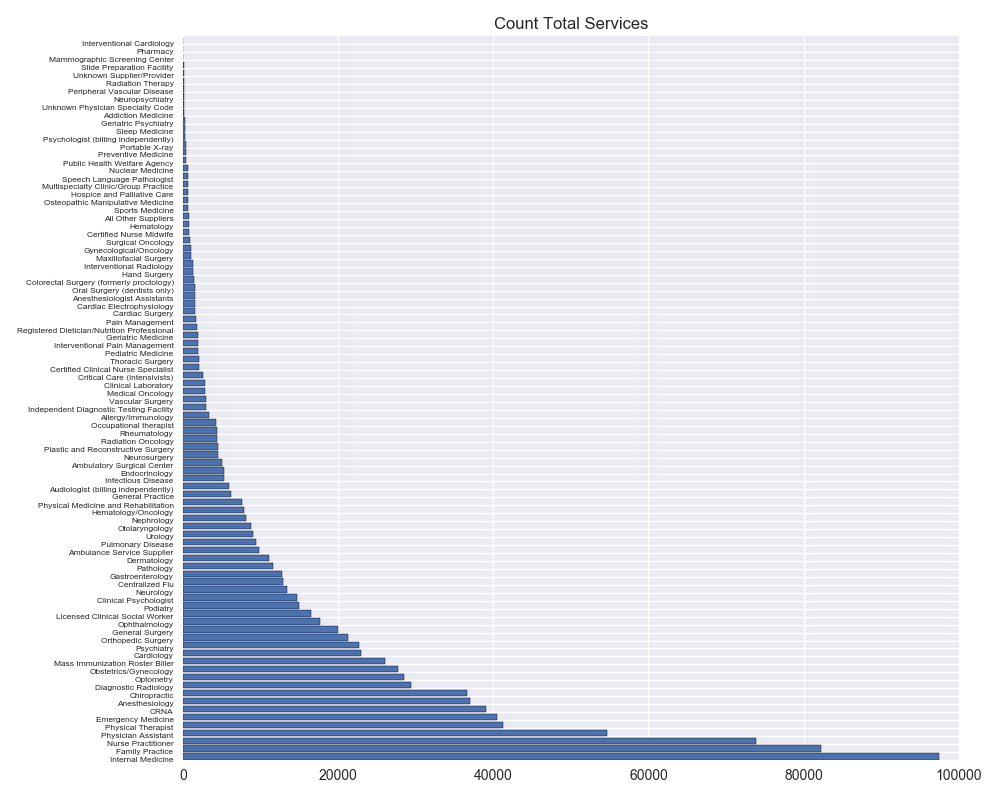
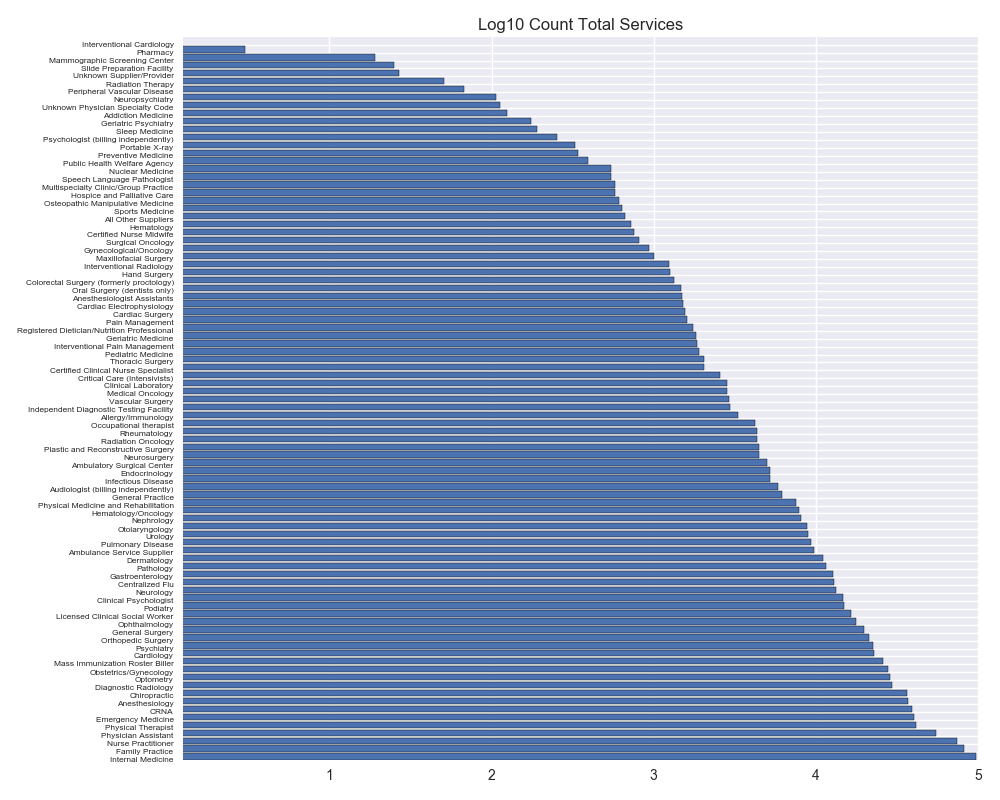
add log scale pop plots

diff --git a/cms_explore.py b/cms_explore.py
@@ -94,9 +94,12 @@ def read_select_data(new_cols, fname, first=False):
 
     return df
 
-def get_col(df, col):
-    "get a series from dataframe for a particular column"
-    return df[col].dropna()
+def get_col(df, col, log=False):
+    "get a series from dataframe for a particular column, w/ option to take log of series"
+    series = df[col].dropna()
+    if log:
+        series = np.log10(series)
+    return series
 
 def process_by_var(plotdir, dfgroup, col, var='nppes_provider_gender'):
     "process dataframe group by variable, usually gender"
@@ -190,14 +193,14 @@ def pop_calc_par_groups(df):
 
     print('\ntop total_services count')  # count of number of providers, not patients
     p_sort = filter_group_by_var(p_group['total_services'], agg_fns, stat='count')
-    make_bar_plot(get_col(p_sort,'count'), plotdir, 'total_services_count', 'Count Total Services')
+    make_bar_plot(get_col(p_sort,'count',log=True), plotdir, 'total_services_count', 'Log10 Count Total Services', xlim=(0.1,5))
     print('\ntop total_services sum')
     p_sort = filter_group_by_var(p_group['total_services'], agg_fns, stat='sum')
-    make_bar_plot(get_col(p_sort,'sum'), plotdir, 'total_services_sum', 'Sum Total Services')
+    make_bar_plot(get_col(p_sort,'sum',log=True), plotdir, 'total_services_sum', 'Log10 Sum Total Services', xlim=(1,9))
 
     print('\ntop total_unique_benes sum')
     p_sort = filter_group_by_var(p_group['total_unique_benes'], agg_fns, stat='sum')
-    make_bar_plot(get_col(p_sort,'sum'), plotdir, 'total_unique_benes_sum', 'Sum Total Beneficiaries')
+    make_bar_plot(get_col(p_sort,'sum',log=True), plotdir, 'total_unique_benes_sum', 'Log10 Sum Total Beneficiaries', xlim=(1,8))
 
     print('\ntop beneficiary_average_age median')
     p_sort = filter_group_by_var(p_group['beneficiary_average_age'], agg_fns, stat='median')
@@ -205,11 +208,11 @@ def pop_calc_par_groups(df):
 
     print('\ntop total_medicare_payment_amt median')
     p_sort = filter_group_by_var(p_group['total_medicare_payment_amt'], agg_fns, stat='median')
-    make_bar_plot(get_col(p_sort,'median'), plotdir, 'median_medicare_payment_amt', 'Median Medicare Payment Amount Per Provider')
+    make_bar_plot(get_col(p_sort,'median',log=True), plotdir, 'median_medicare_payment_amt', 'Log10 Median Medicare Payment Amount Per Provider', xlim=(1,6))
 
     print('\ntop total_medicare_payment_amt')
     p_sort = filter_group_by_var(p_group['total_medicare_payment_amt'], agg_fns, stat='sum')
-    make_bar_plot(get_col(p_sort,'sum'), plotdir, 'total_medicare_payment_amt', 'Total Medicare Payment Amount')
+    make_bar_plot(get_col(p_sort,'sum',log=True), plotdir, 'total_medicare_payment_amt', 'Log10 Total Medicare Payment Amount', xlim=(1,10))
 
 def pay_calc_par_groups(df):
     "calculate series of grouped pay parameters, printed by column"
@@ -299,13 +302,13 @@ def main():
 # many facility provider_types have only one gender, none
 
 #   pay_calc_par_groups(df)
-#   pop_calc_par_groups(df)
+    pop_calc_par_groups(df)
 #   average_age_par_group(df)
 #   gender_par_groups(df)
 #   age_segment_par_groups(df)
 
 #   calc_by_states(df)
-    calc_by_zip(df)
+#   calc_by_zip(df)
 
 if __name__ == '__main__':
     main()
